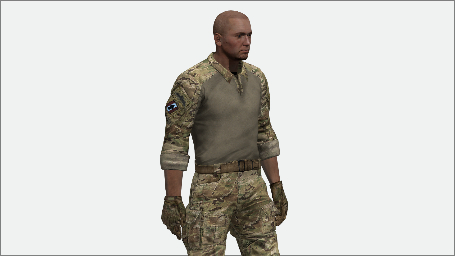
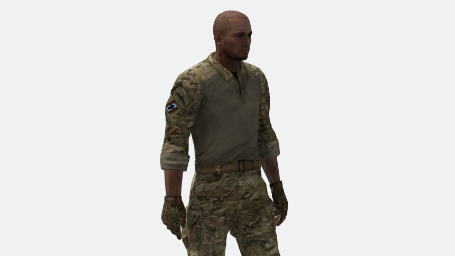
Updated base unit previews. Fixed 3cb apache dependency

Changed region(s): [[0.0, 0.0, 1.0, 1.0]]

diff --git a/addons/air/config.cpp b/addons/air/config.cpp
@@ -30,6 +30,17 @@ class CfgPatches {
         url = QUOTE(www.uk-sf.com);
         VERSION_CONFIG;
     };
+    class UK3CB_BAF_Vehicles_Apache {
+        name = "UK3CB_BAF_Vehicles_Apache";
+        units[] = {};
+        weapons[] = {};
+        requiredVersion = REQUIRED_VERSION;
+        requiredAddons[] = {};
+        author = QUOTE(UKSF);
+        authors[] = { "Beswick.T" };
+        url = QUOTE(www.uk-sf.com);
+        VERSION_CONFIG;
+    };
 };
 
 class RscInGameUI {

diff --git a/addons/units/units/CfgUKSF.hpp b/addons/units/units/CfgUKSF.hpp
@@ -56,7 +56,7 @@ class UKSF_B_PathfinderMedic: UKSF_B_Pathfinder {
 class UKSF_B_SAS: UKSF_B_Rifleman {
     displayName = "SAS Trooper";
     uniformClass = "CFP_75th_CRYE_V1b_Full_Clean";
-    editorPreview = QPATHTOEF(common,data\previews\UKSF_B_Pathfinder.jpg);
+    editorPreview = QPATHTOEF(common,data\previews\UKSF_B_SAS.jpg);
     engineer = 1;
 };
 class UKSF_B_Pilot: UKSF_B_Rifleman {
